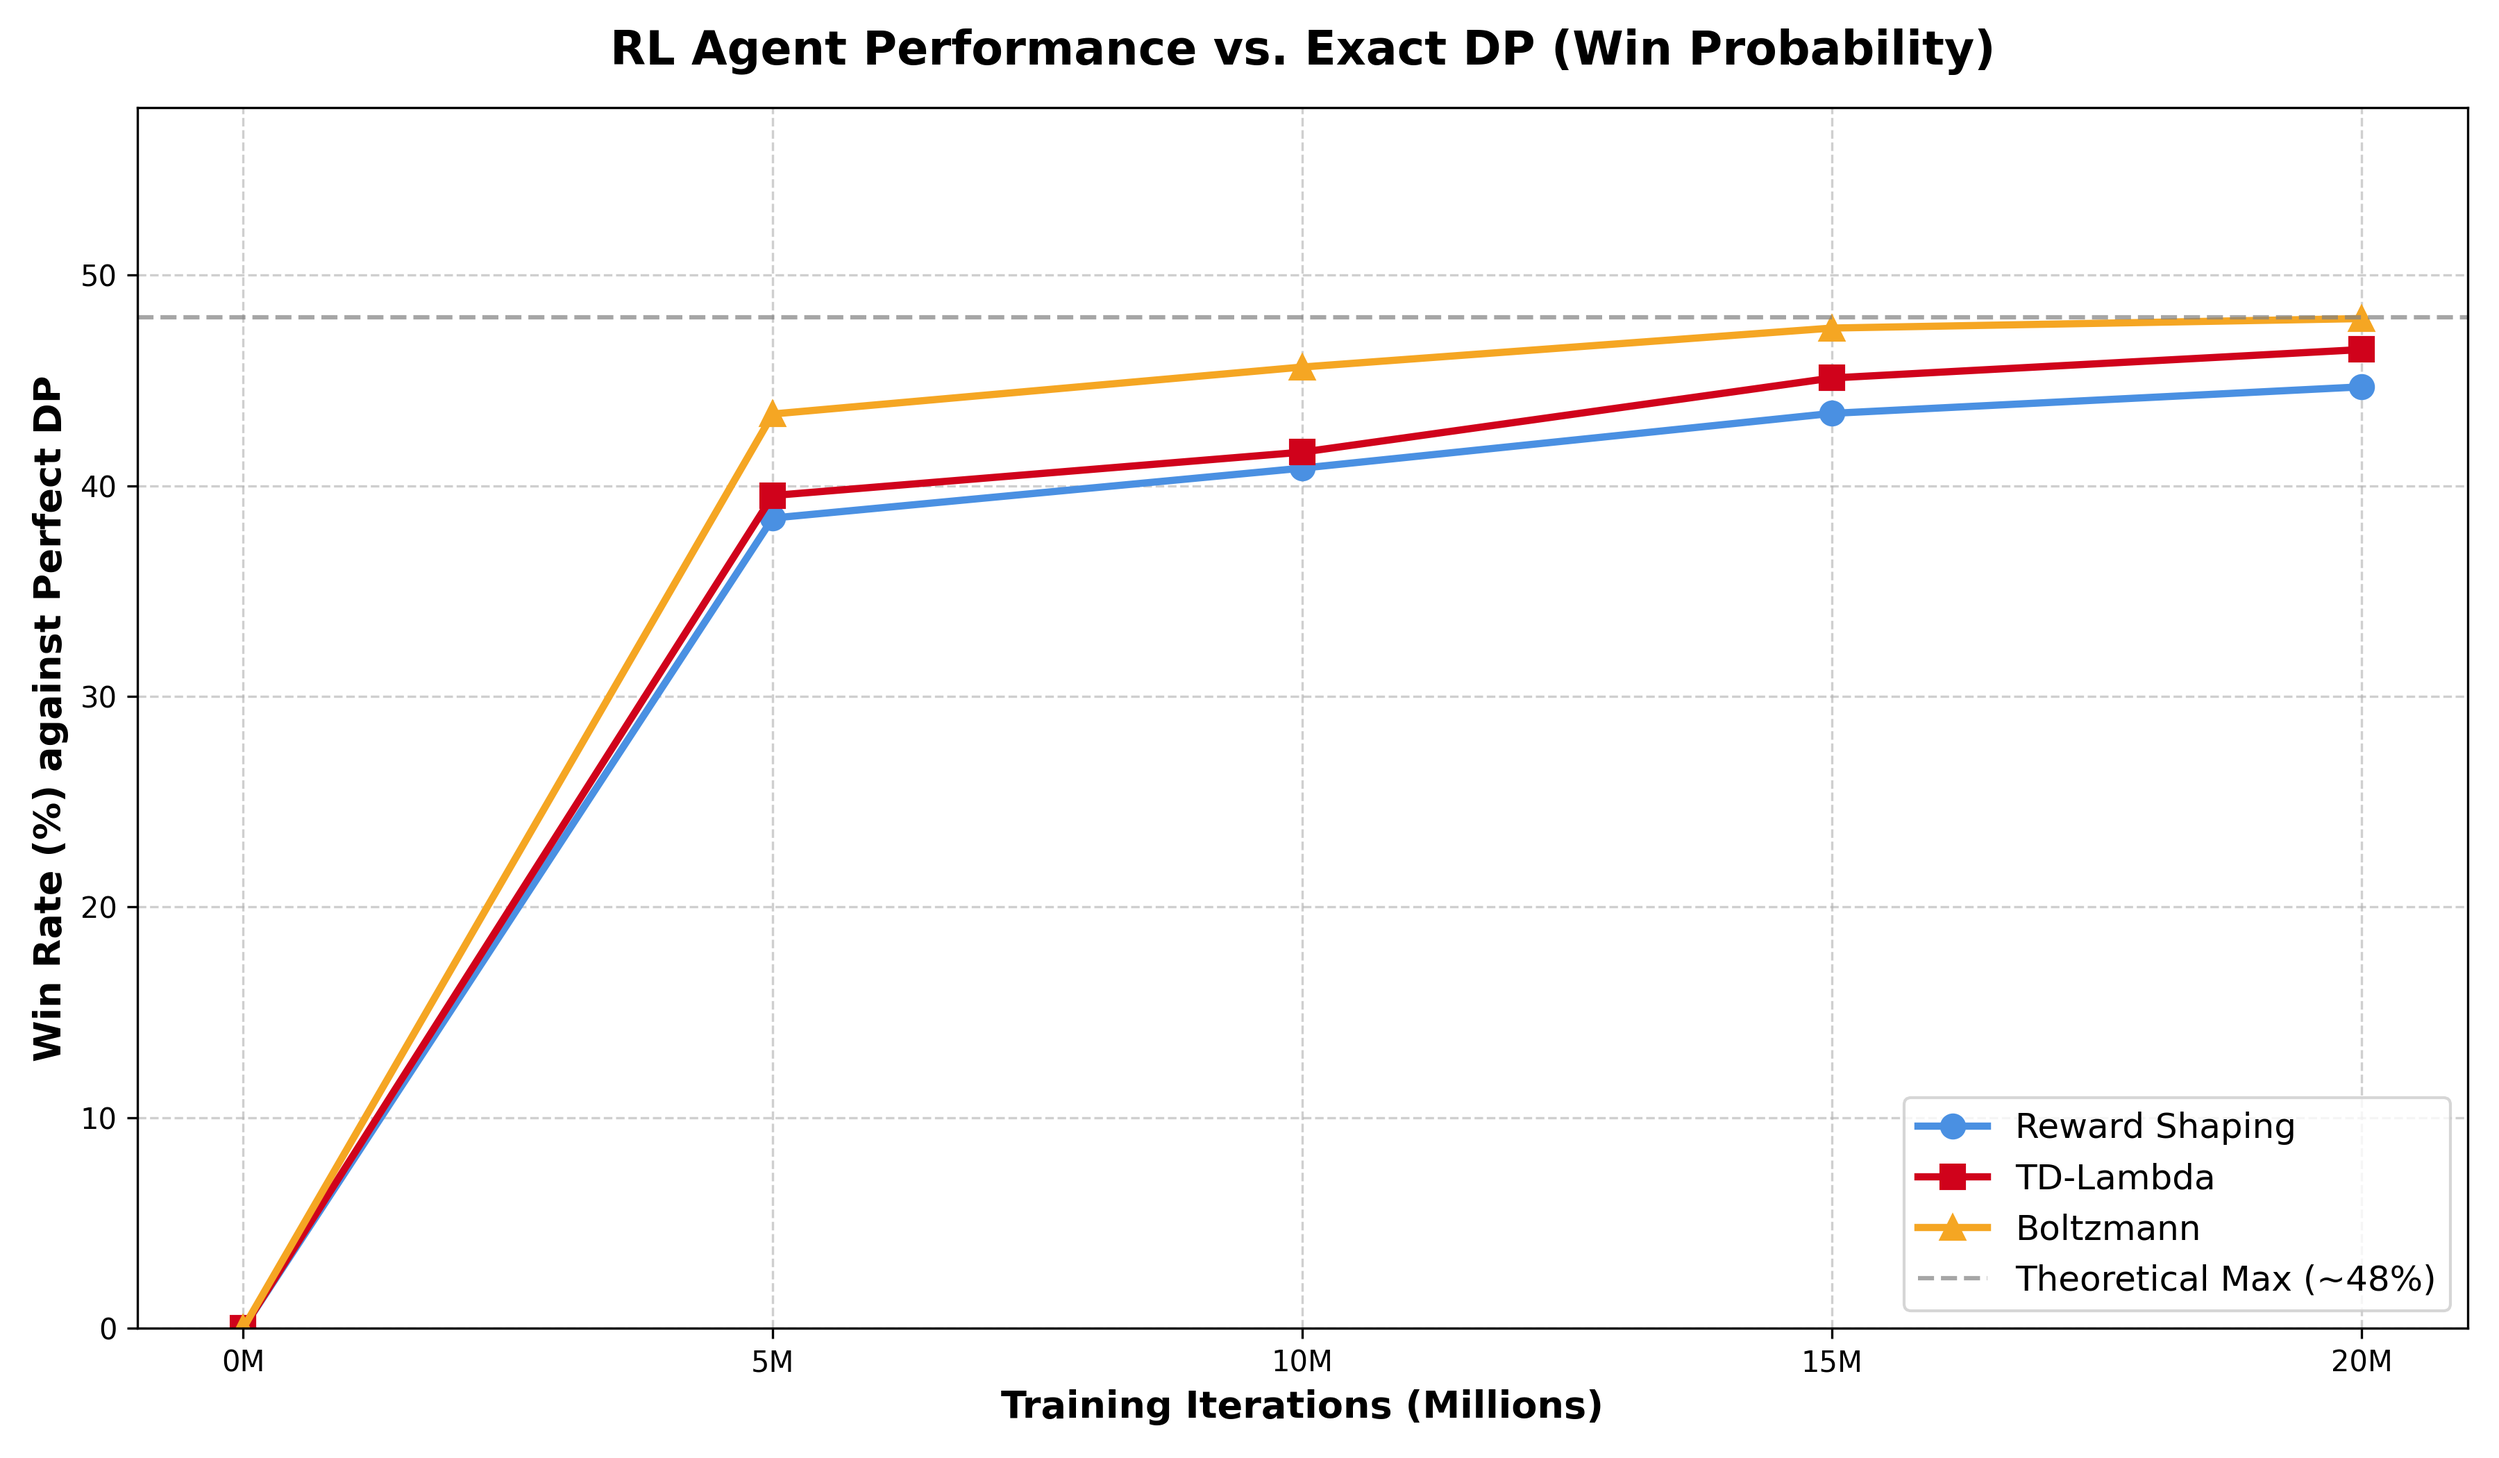
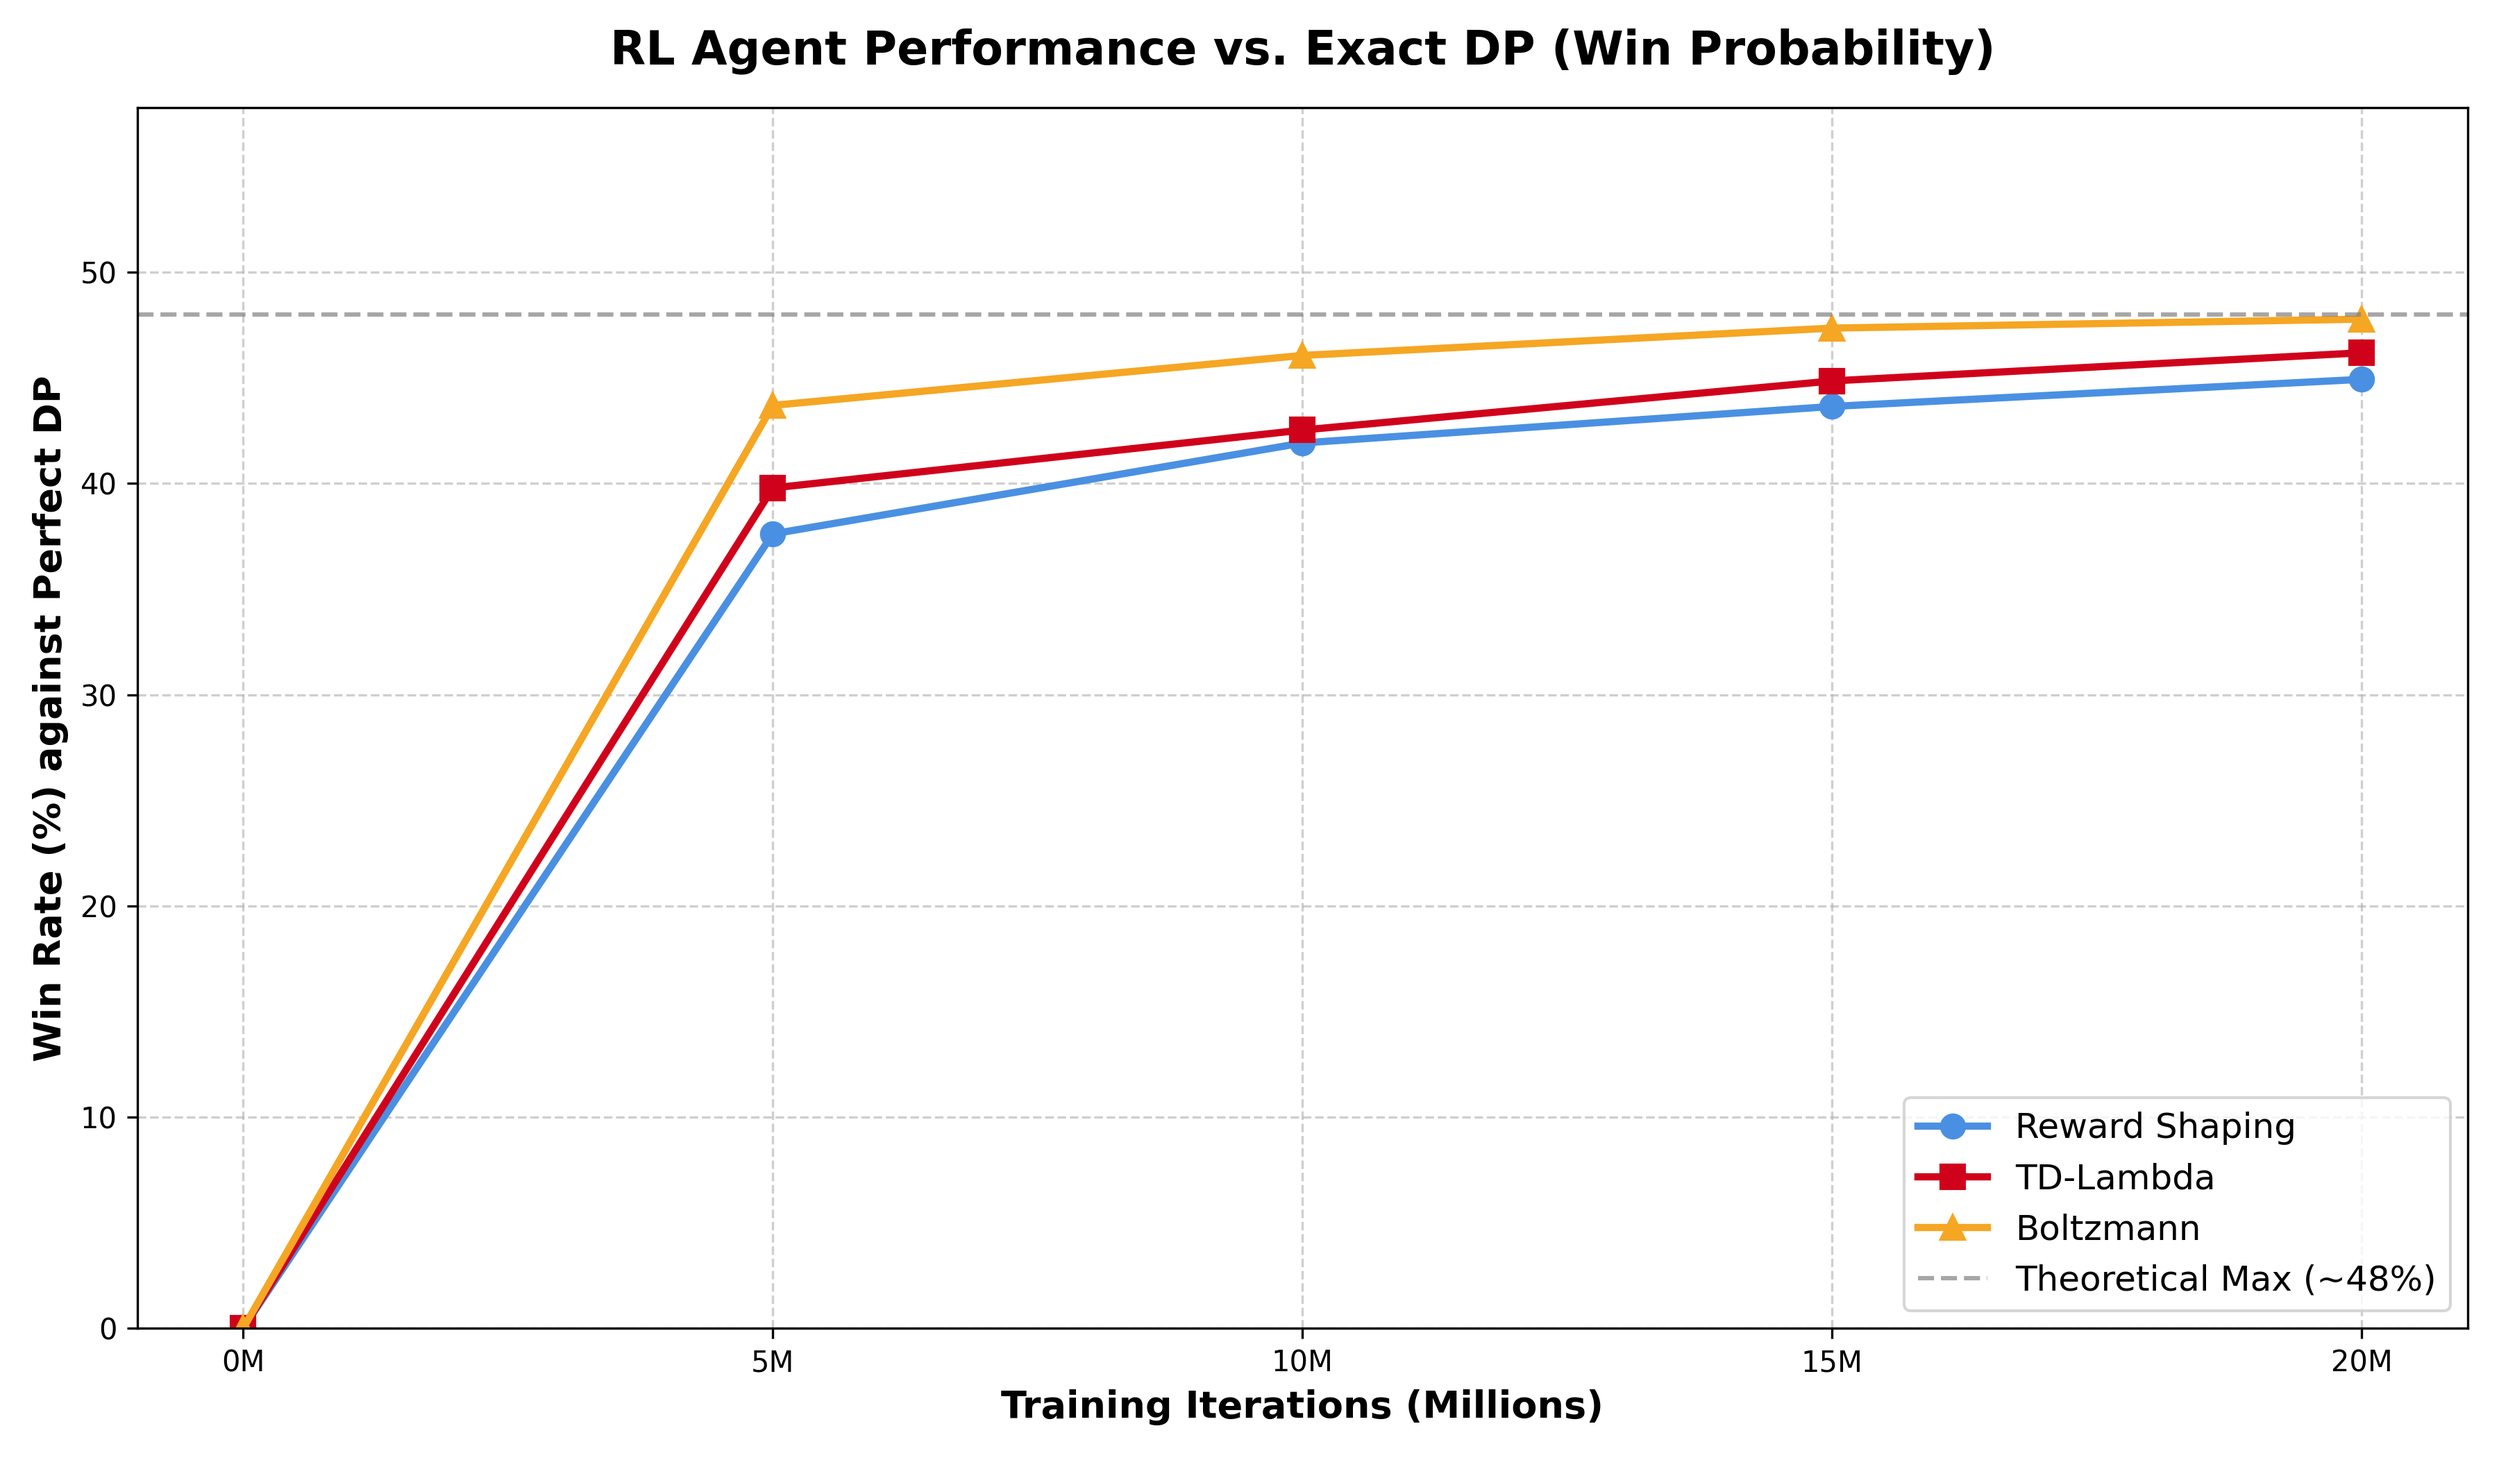
changes

diff --git a/analysis/plot_model_comparison.py b/analysis/plot_model_comparison.py
@@ -2,13 +2,15 @@ import os
 import numpy as np
 import matplotlib.pyplot as plt
 import random
+import time
+import multiprocessing as mp
 from core.state_encoder import decode_state
 from core.environment import MiniQwixxEnv
 
 ROW_ID_TO_COUNT = [0, 1, 1, 2, 1, 2, 3, 1, 2, 3, 4, 3, 4, 5]
 
 # ---> CHANGE THIS VALUE ONCE HERE <---
-NUM_SIMULATED_GAMES = 100000 
+NUM_SIMULATED_GAMES = 100000
 
 def calculate_score(r_id, b_id, penalties):
     count_r, count_b = ROW_ID_TO_COUNT[r_id], ROW_ID_TO_COUNT[b_id]
@@ -20,12 +22,19 @@ def roll_dice():
     return {'W1': random.randint(1, 3), 'W2': random.randint(1, 3), 
             'R': random.randint(1, 3), 'B': random.randint(1, 3)}
 
-def simulate_games(rl_V, dp_V, num_games=NUM_SIMULATED_GAMES):
-    rl_wins = 0
+def simulate_games_chunk(args):
+    """The worker function that runs a smaller chunk of games on a single CPU core."""
+    chunk_size, rl_V, dp_V = args
+    
+    # CRITICAL: Re-seed the random generator so cores don't mirror each other's dice rolls
+    random.seed(os.getpid() + int(time.time() * 1000))
+    np.random.seed((os.getpid() + int(time.time() * 1000)) % 4294967295)
+    
+    local_rl_wins = 0
     white_actions = ['R', 'B', None]
     color_actions = [('R', '1'), ('R', '2'), ('B', '1'), ('B', '2'), None]
     
-    for _ in range(num_games):
+    for _ in range(chunk_size):
         state = 0
         active_player = 1 
         
@@ -38,7 +47,6 @@ def simulate_games(rl_V, dp_V, num_games=NUM_SIMULATED_GAMES):
             next_active_idx = 1 if active_player == 1 else 0
             
             # --- STEP 1: INDEPENDENT WHITE ACTIONS ---
-            # RL Agent (P1) builds its matrix to pick its white action
             rl_payoff = np.zeros((3, 3), dtype=np.float32)
             for w1_idx, a_w1 in enumerate(white_actions):
                 for w2_idx, a_w2 in enumerate(white_actions):
@@ -53,7 +61,6 @@ def simulate_games(rl_V, dp_V, num_games=NUM_SIMULATED_GAMES):
                         if val > best_val: best_val = val
                     rl_payoff[w1_idx, w2_idx] = best_val
 
-            # Exact DP Agent (P2) builds its matrix to pick its white action
             dp_payoff = np.zeros((3, 3), dtype=np.float32)
             for w1_idx, a_w1 in enumerate(white_actions):
                 for w2_idx, a_w2 in enumerate(white_actions):
@@ -68,7 +75,6 @@ def simulate_games(rl_V, dp_V, num_games=NUM_SIMULATED_GAMES):
                         if val < best_val: best_val = val
                     dp_payoff[w1_idx, w2_idx] = best_val
 
-            # Both players pick their safest Minimax strategy independently
             p1_w1_idx = np.argmax(np.min(rl_payoff, axis=1))
             a_w1_chosen = white_actions[p1_w1_idx]
 
@@ -76,9 +82,8 @@ def simulate_games(rl_V, dp_V, num_games=NUM_SIMULATED_GAMES):
             a_w2_chosen = white_actions[p2_w2_idx]
 
             # --- STEP 2: ACTIVE PLAYER PICKS COLOR ACTION ---
-            # Now that white actions are locked, the active player decides what color box to cross
             best_final_c = None
-            if active_player == 1: # RL Agent chooses
+            if active_player == 1: 
                 best_val = -9999.0
                 for a_c in color_actions:
                     next_s, is_term = MiniQwixxEnv.step(state, active_player, dice, a_w1_chosen, a_w2_chosen, a_c)
@@ -91,7 +96,7 @@ def simulate_games(rl_V, dp_V, num_games=NUM_SIMULATED_GAMES):
                     if val > best_val:
                         best_val = val
                         best_final_c = a_c
-            else: # Exact DP Agent chooses
+            else: 
                 best_val = 9999.0
                 for a_c in color_actions:
                     next_s, is_term = MiniQwixxEnv.step(state, active_player, dice, a_w1_chosen, a_w2_chosen, a_c)
@@ -105,16 +110,33 @@ def simulate_games(rl_V, dp_V, num_games=NUM_SIMULATED_GAMES):
                         best_val = val
                         best_final_c = a_c
 
-            # Execute the final combined moves
             state, _ = MiniQwixxEnv.step(state, active_player, dice, a_w1_chosen, a_w2_chosen, best_final_c)
             active_player = 2 if active_player == 1 else 1
             
-        # Check Winner
         p1_r, p1_b, p1_p, p2_r, p2_b, p2_p = decode_state(state)
         if calculate_score(p1_r, p1_b, p1_p) > calculate_score(p2_r, p2_b, p2_p):
-            rl_wins += 1
+            local_rl_wins += 1
             
-    return (rl_wins / num_games) * 100
+    return local_rl_wins
+
+def simulate_games(rl_V, dp_V, num_games=NUM_SIMULATED_GAMES):
+    """The Multi-Core Manager: Splits the 100,000 games across all available CPU cores."""
+    cores = mp.cpu_count()
+    chunk_size = num_games // cores
+    remainder = num_games % cores
+    
+    args_list = []
+    for i in range(cores):
+        # Give any leftover games to the very first core
+        games_for_this_core = chunk_size + (remainder if i == 0 else 0)
+        args_list.append((games_for_this_core, rl_V, dp_V))
+        
+    with mp.Pool(processes=cores) as pool:
+        # pool.map returns a list of the win counts from each core
+        results = pool.map(simulate_games_chunk, args_list)
+        
+    total_rl_wins = sum(results)
+    return (total_rl_wins / num_games) * 100
 
 def generate_comparison_plot():
     print("Loading Exact DP Agent...")
@@ -133,8 +155,7 @@ def generate_comparison_plot():
     milestones = [5, 10, 15, 20]
     plot_data = {name: [] for name in models.keys()}
     
-    # Formatted print string using the new global constant
-    print(f"\nStarting the Checkpoint Tournament ({NUM_SIMULATED_GAMES:,} games per checkpoint). This may take a few minutes...\n")
+    print(f"\nStarting the Checkpoint Tournament ({NUM_SIMULATED_GAMES:,} games per checkpoint). Running on {mp.cpu_count()} cores...\n")
 
     for model_name, info in models.items():
         print(f"--- Evaluating {model_name} ---")
@@ -146,7 +167,6 @@ def generate_comparison_plot():
                 print(f"  Loading {m}M Checkpoint...")
                 rl_V = np.load(file_path)
                 
-                # Using the global constant here too!
                 win_rate = simulate_games(rl_V, dp_V, num_games=NUM_SIMULATED_GAMES)
                 
                 plot_data[model_name].append(win_rate)
